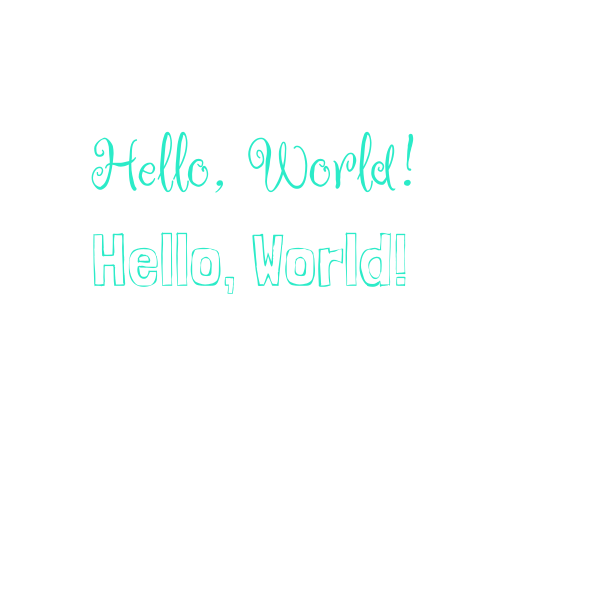
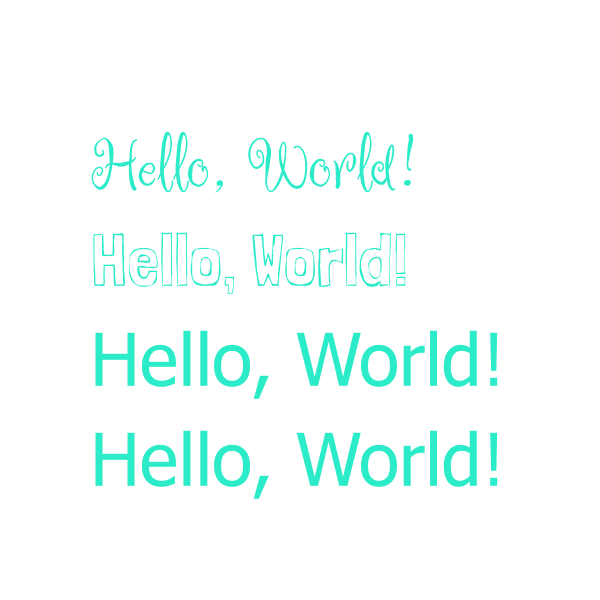
...

diff --git a/main.js b/main.js
@@ -217,6 +217,57 @@ const fabricJSON = {
       skewX: 0,
       skewY: 0,
     },
+    {
+      id: "myText",
+      fontSize: 24,
+      fontWeight: "normal",
+      fontFamily: "Dancing Script",
+      fontStyle: "regular",
+      lineHeight: 1.16,
+      text: "Hello, World!",
+      charSpacing: 0,
+      textAlign: "left",
+      styles: [],
+      pathStartOffset: 0,
+      pathSide: "left",
+      pathAlign: "baseline",
+      underline: false,
+      overline: false,
+      linethrough: false,
+      textBackgroundColor: "",
+      direction: "ltr",
+      type: "IText",
+      version: "6.4.0",
+      originX: "left",
+      originY: "top",
+      left: 89,
+      top: 520,
+      width: 138.2109,
+      height: 27.12,
+      fill: "#2BEBC8",
+      stroke: null,
+      strokeWidth: 1,
+      strokeDashArray: null,
+      strokeLineCap: "butt",
+      strokeDashOffset: 0,
+      strokeLineJoin: "miter",
+      strokeUniform: false,
+      strokeMiterLimit: 4,
+      scaleX: 3.0475,
+      scaleY: 3.0475,
+      angle: 0,
+      flipX: false,
+      flipY: false,
+      opacity: 1,
+      shadow: null,
+      visible: true,
+      backgroundColor: "",
+      fillRule: "nonzero",
+      paintFirst: "fill",
+      globalCompositeOperation: "source-over",
+      skewX: 0,
+      skewY: 0,
+    },
   ],
 };
 
